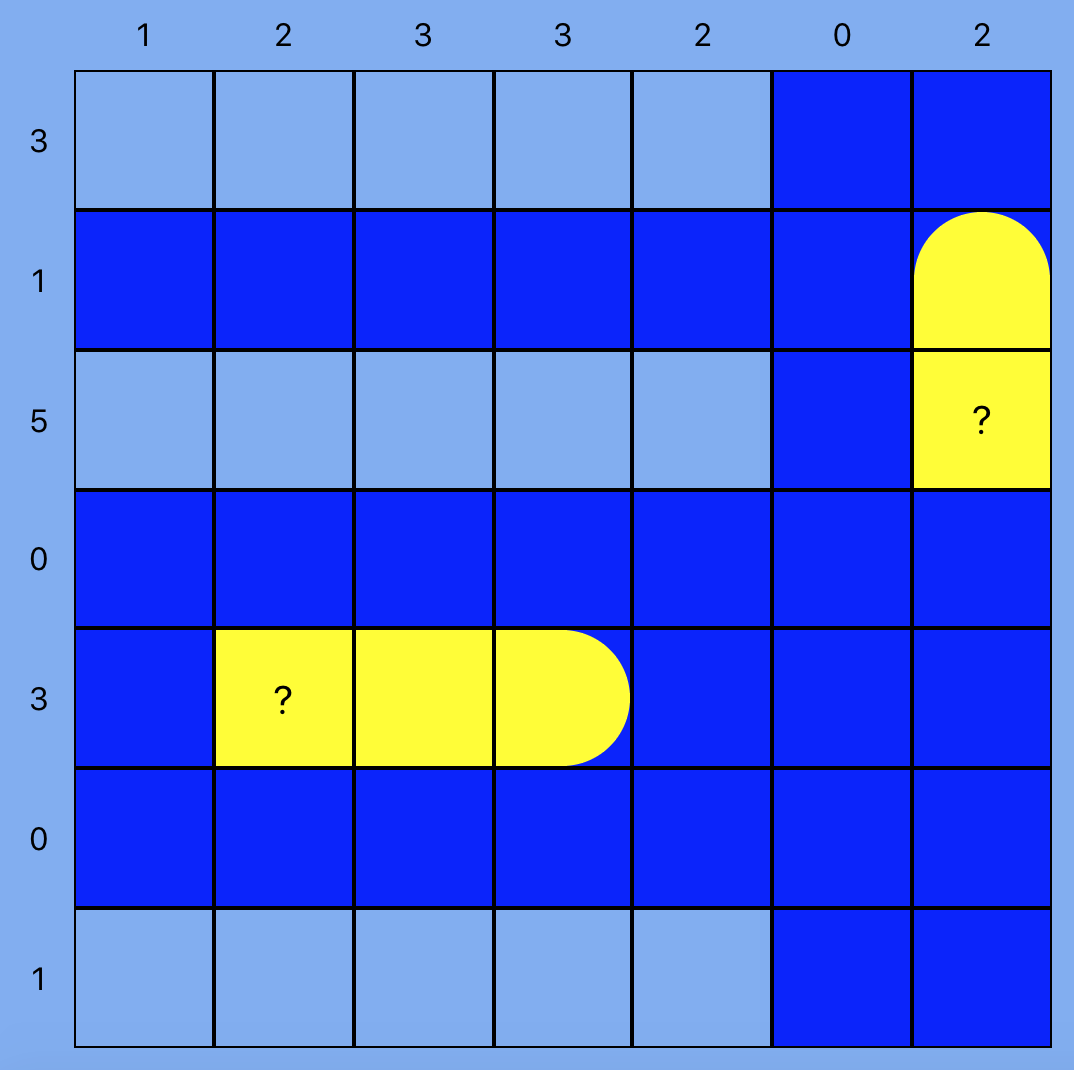
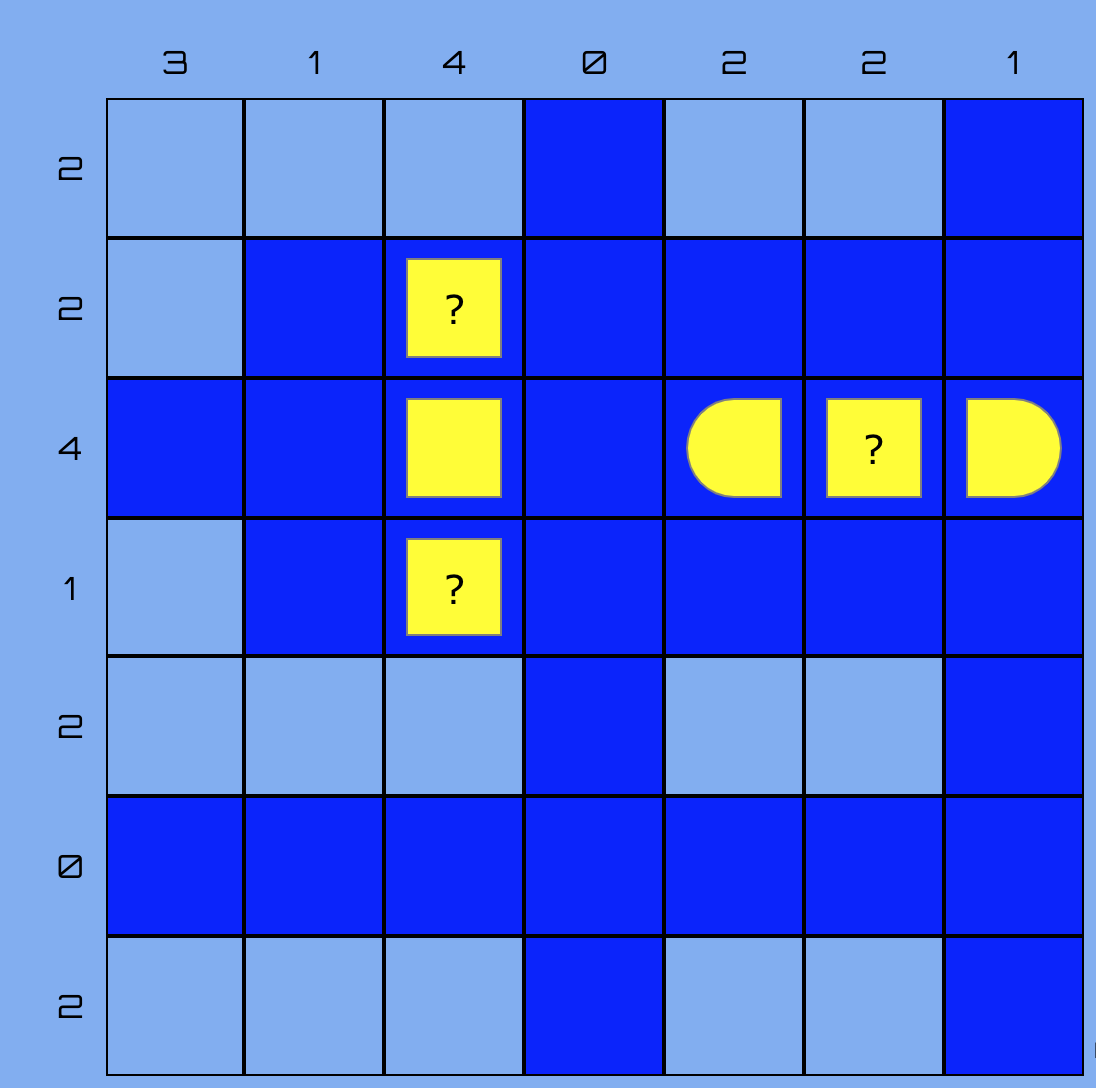
Instructions and new image for Battleships

diff --git a/src/components/Battleships/index.js b/src/components/Battleships/index.js
@@ -191,6 +191,8 @@ function Battleships() {
         <Button colour="purple" onClick={clear}>
           Start again
         </Button>
+        <p><small>Numbers beside the grid represent how many parts of ships are in the corresponding row or column. Parts of different ships cannot be found in a square adjacent to one another, even diagonally.</small></p>
+        <p><small>Click on a square to mark it as water, or part of a ship, and click again to remove.</small></p>
       </div>
     </div>
   );
